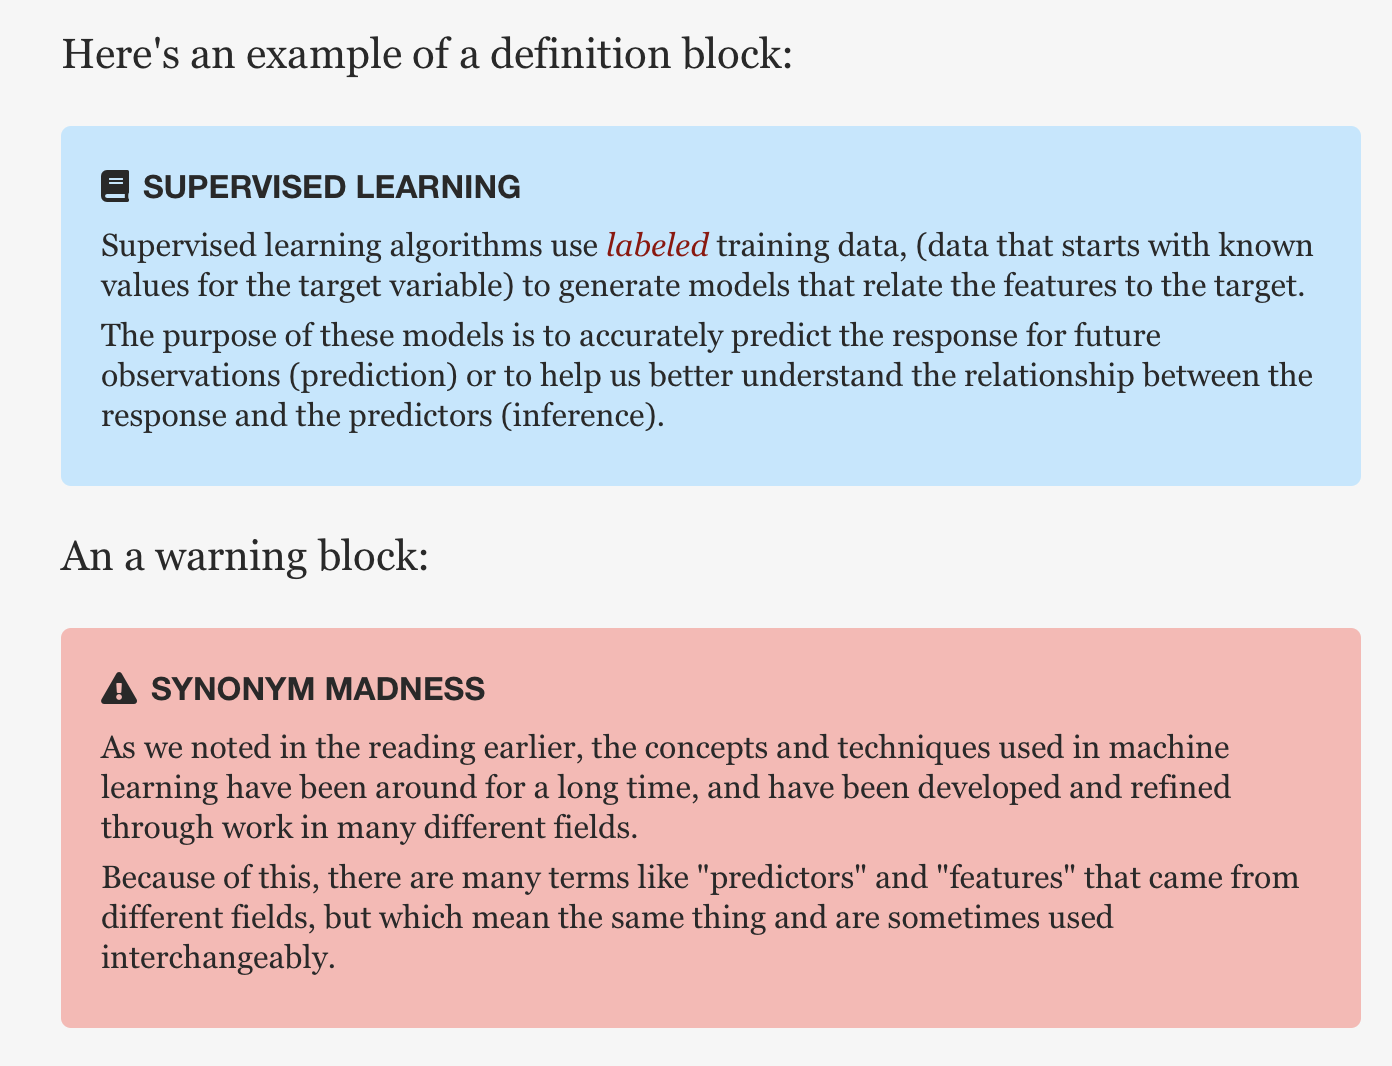
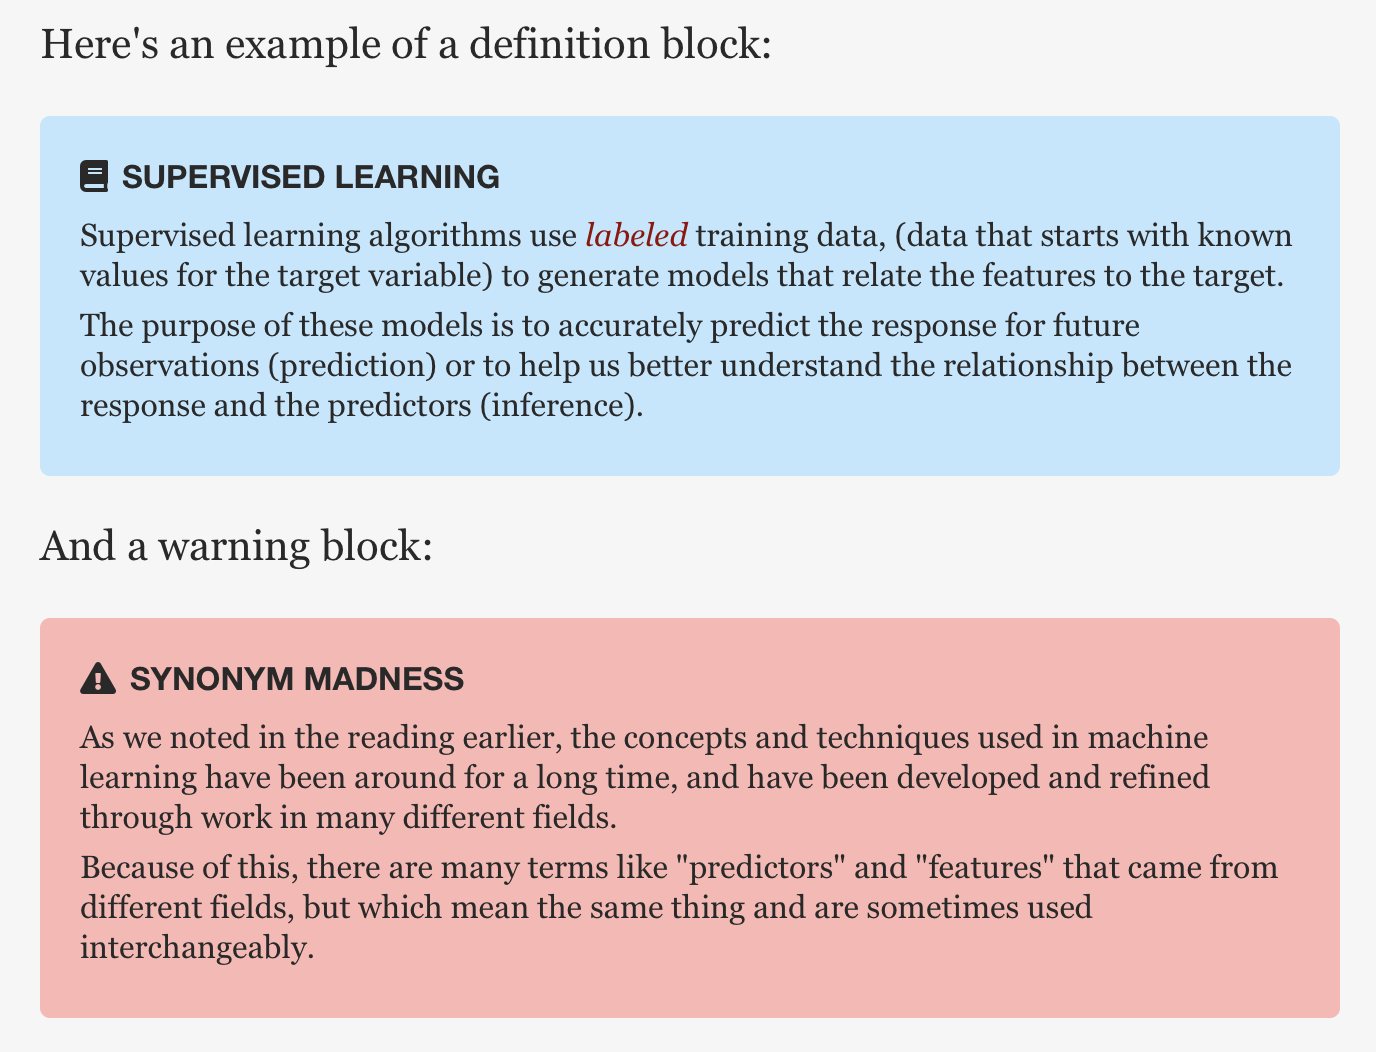
Fix image and typo

diff --git a/readme.md b/readme.md
@@ -98,7 +98,7 @@ Here's an example of a definition block:
 		us better understand the relationship between the response 
 		and the predictors (inference). 
 
-An a warning block:
+And a warning block:
 
 	!!! warning "Synonym Madness"
 		
